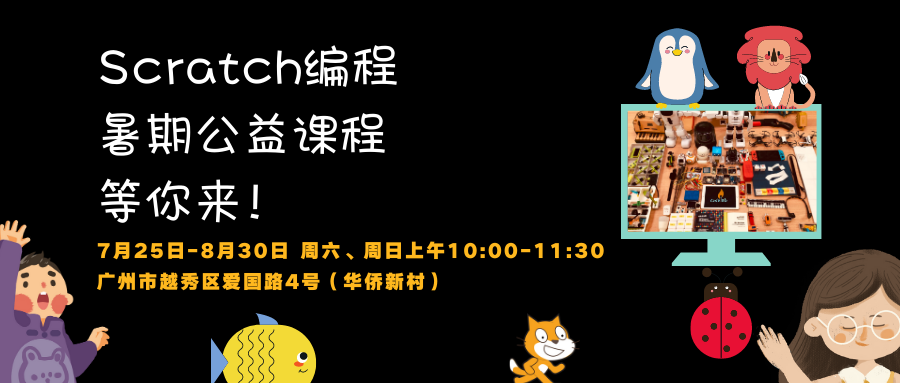
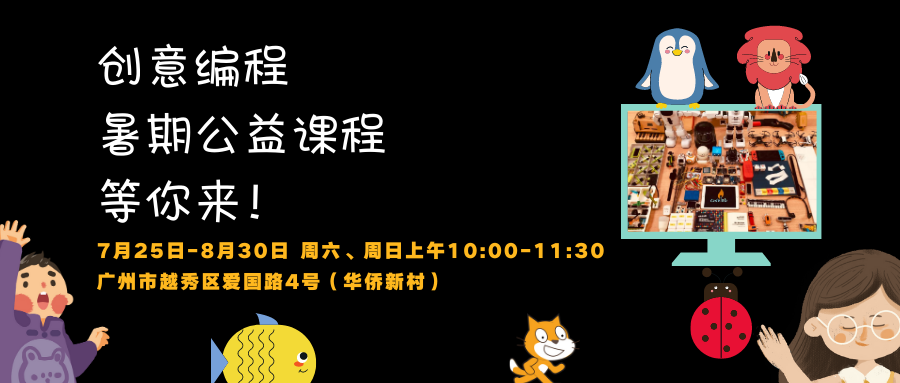
🐞fix(主页，博客): 去Scratch；logo下载

Changed region(s): [[0.0933, 0.1149, 0.4356, 0.2298]]

diff --git a/src/pages/index.js b/src/pages/index.js
@@ -112,11 +112,11 @@ function Home() {
       <div className={clsx(styles.env)}>
         <div className={styles.yellowLine}></div>
         <div className={clsx("container",styles.start)}>
-          <p className={clsx(styles.subtitle1)}>让我们从 Scratch 开始</p>
-          <p className={clsx(styles.subtitleNote)}>色彩、卡通、音乐、运动、交互全在这里，由此进入动画故事、交互游戏、程序软件的幕后创作</p>
+          <p className={clsx(styles.subtitle1)}>让我们从这里开始</p>
+          <p className={clsx(styles.subtitleNote)}>色彩、卡通、音乐、运动、交互全在此，由此进入动画故事、交互游戏、程序软件的幕后创作</p>
           <iframe className={styles.iframe} src="https://scratch3v3.codelab.club/?sb3url=https://scratch3-files.just4fun.site/Wake_me_up_now_3m.sb3"/>
           <p className="text--center margin-top--lg">
-            <a href="https://scratch.codelab.club/projects/editor/" target="_blank"><button className="button button--info margin-bottom--md">立即开始 Scratch 创作</button></a>
+            <a href="https://scratch.codelab.club/projects/editor/" target="_blank"><button className="button button--info margin-bottom--md">立即开始创作</button></a>
             <a href="https://scratch.codelab.club" target="_blank"><button className="button button--info margin-bottom--md">先去看看大家的作品</button></a>
           </p>
 
@@ -148,10 +148,10 @@ function Home() {
             <div className= 'col'>
               <article className={clsx(styles.box)}>
                 <a className={clsx(styles.imagefeature)} href="https://mp.weixin.qq.com/s/1IJIHCKaqZeJki8hWiAKuw" target="_blank">
-                  <img src="/img/暑期课程.png" alt = "Scratch编程暑期公益课程"></img>
+                  <img src="/img/暑期课程.png" alt = "创意编程暑期公益课程"></img>
                 </a>
                 <h3>
-                  <a href="https://mp.weixin.qq.com/s/1IJIHCKaqZeJki8hWiAKuw" target="_blank">Scratch 编程暑期公益课程</a>
+                  <a href="https://mp.weixin.qq.com/s/1IJIHCKaqZeJki8hWiAKuw" target="_blank">创意编程暑期公益课程</a>
                 </h3>
                 <p>暑期进行中</p>
               </article>
@@ -164,7 +164,7 @@ function Home() {
                 <h3>
                   <a href="/blog/2020/08/14/3.5-release/">CodeLab Adapter 3.5 发布</a>
                 </h3>
-                <p>CodeLab Scratch社区的创作平台将作为Scratch入口</p>
+                <p>将CodeLab创作平台社区作为入口</p>
               </article>
             </div>
           <div className= 'col'>
@@ -195,7 +195,7 @@ function Home() {
           <div className={clsx("container", "row", styles.community)}>
 
             <div className={clsx(styles.circle1)}>
-              <a href="https://scratch.codelab.club/" target="_blank"><div>Scratch 社区</div></a>
+              <a href="https://scratch.codelab.club/" target="_blank"><div>社区</div></a>
             </div>
             <div className={clsx(styles.plus1, 'col', 'col--1')}>
               <p>+</p>

diff --git a/docusaurus.config.js b/docusaurus.config.js
@@ -1,7 +1,8 @@
 const codeblockTheme = require('prism-react-renderer/themes/palenight')
 // 可选theme  https://github.com/FormidableLabs/prism-react-renderer/tree/master/src/themes
 // 覆盖背景色
-codeblockTheme.plain.backgroundColor = '#000000'
+codeblockTheme.plain.backgroundColor = '#000'
+codeblockTheme.plain.color = '#ffffff'
 
 module.exports = {
   title: 'CodeLab',
@@ -22,7 +23,7 @@ module.exports = {
       links: [
         {
           href: 'https://scratch.codelab.club',
-          label:'Scratch 社区',
+          label:'创作平台',
           position: 'left'
         },
         {

diff --git a/src/css/custom.css b/src/css/custom.css
@@ -28,7 +28,7 @@
 }
 
 code {
-  background-color: #ffb81e;
+  background-color: #ffd270;
   border-radius: 2px;
   color: black;
   font-family: var(--ifm-font-family-monospace);

diff --git a/blog/tools.md b/blog/tools.md
@@ -56,6 +56,12 @@ v3.4.2:
 *  <a href="http://scratch3-files.just4fun.site/mbedWinSerial_16466%20%283%29.exe" target="_blank">Windows serial driver(for earlier versions of Windows, (Windows 7, Vista) )</a>
   *  ref: [How do I connect the micro:bit to my computer](https://support.microbit.org/support/solutions/articles/19000013984-how-do-i-connect-the-micro-bit-to-my-computer)
 
+## CodeLab Logo
+* PNG 格式
+![PNG格式](https://adapter.codelab.club/img/codelab_logo.png)
+
+* SVG 格式
+![SVG格式](https://adapter.codelab.club/img/codelab_logo.svg)
 
 <!--暂未使用-->
 <!--

diff --git a/blog/Neverland-community.md b/blog/Neverland-community.md
@@ -15,7 +15,7 @@ author: "种瓜"
 <!--truncate-->
 
 
-<video width="80%" src="https://www-old.codelab.club/video/1583729439575050.mp4" controls="controls"></video>
+<video width="80%" src="https://adapter.codelab.club/video/1583729439575050.mp4" controls="controls"></video>
 
 我们于2019年5月份完成CodeLab Neverland。 接受外部访问后，陆续收到许多访问预约，前后也接待了不少教育从业者/IT从业者(`>100`)。
 
